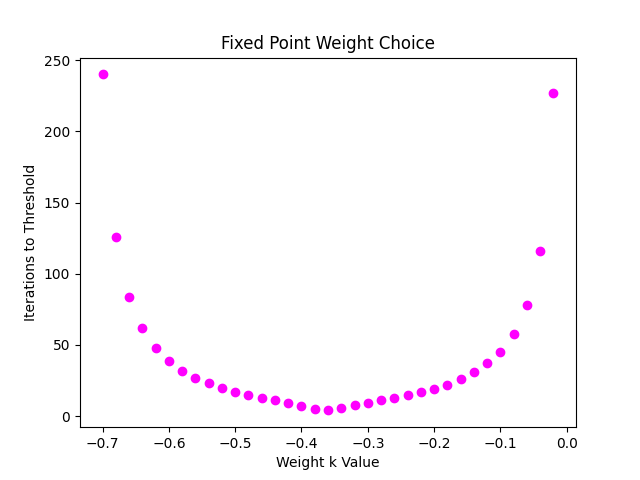
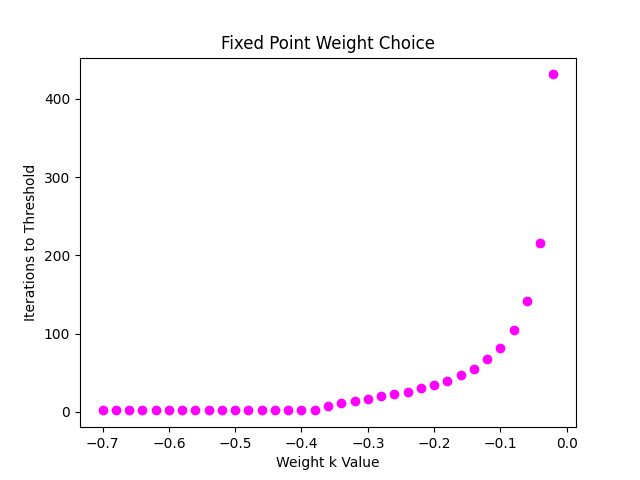
P2 cleaned, part d

diff --git a/HW6/P2.py b/HW6/P2.py
@@ -1,84 +1,188 @@
 import numpy as np
 import matplotlib.pyplot as plt
 
+
+
+
 ########################################## SUBSECTION A ########################################## 
 
-k_opt = -0.404036086 #weight parameter
-k_range = np.arange(-0.7,0,0.02)
-
-#------- Functions -------#
-#Exact function:
+#------- Function -------#
+# Exact function:
 def f1(x):
     return x*np.exp(x) - 1
 
-#Iterative solver:
+
+#------- Fixed-Point Method -------#
 def fixed_point(k):
-    x_0 = 0.5 #initialization
-    max_iter = 10000 #max iterations
+    x_0 = 0.5 # initialization
+    max_iter = 10000 # max iterations
+    num_iter = 0
     x = x_0 #starting value
-
-    for i in range(max_iter):
-        x_new = x + k*f1(x)
-        if np.abs(x_new - x) < 1E-8:
-            break
-        x = x_new
-    
-    return i
-
-
-#--------- Plotting ---------#
-plt.figure()
-plt.title('Fixed Point Weight Choice')
-plt.xlabel('Weight k Value')
-plt.ylabel('Iterations to Threshold')
-iters = []
-for k in k_range:
-    iters.append(fixed_point(k))
-plt.scatter(k_range, iters, color='magenta')
-#plt.show()
-plt.savefig('fixed_pt.png')
-
-print(f'k_opt iterations: {fixed_point(k_opt)}')
-    
+    Delta_x = 1
+    #
+    while Delta_x > 1E-13 and num_iter < max_iter:
+        Delta_x = k*f1(x)
+        x = x + Delta_x
+        num_iter += 1
+    #
+    return num_iter
 
 
+#--------------- Plotting ---------------#
+def a_plotting():
+    k_range = np.arange(-0.7,0,0.02)
+    #
+    plt.figure()
+    plt.title('Fixed Point Weight Choice')
+    plt.xlabel('Weight k Value')
+    plt.ylabel('Iterations to Threshold')
+    iters = []
+    for k in k_range:
+        iters.append(fixed_point(k))
+    plt.scatter(k_range, iters, color='magenta')
+    plt.savefig('fixed_pt.png')
+    plt.show()
+    print(f'k_opt iterations: {fixed_point(-0.404036086)}') #optimal k as analytically found
+    return()
+        
 
 
 
 ########################################## SUBSECTION C ########################################## 
 
-
-
+#----- Function & Derivative -----#
+# Function:
 def f2(x):
     return 1/x + 2*np.log(x) - 2
 
+# Function Derivative:
 def f2_prime(x):
     return -1/x**2 + 2/x 
 
-def newton_method(init_guess):
-    x = init_guess #initial guess
-    num_iter = 10
-    for i in range(num_iter):
-        x_new = x - f2(x)/f2_prime(x)
-        x = x_new
-        print(x_new)
 
-    return x_new
-
-
-x = np.linspace(0.1,3,100)
-
-
-plt.figure()
-plt.title('')
-plt.plot(x, f2(x), label='f(x)')
-plt.scatter([newton_method(0.1), newton_method(2)], [0,0], label='roots')
-plt.grid(True)
-#plt.show()
+#------------ 1D Newton Method ------------#
+def newton1D(init_guess, f, f_prime):
+    x = np.asarray(init_guess, dtype=float)
+    max_iter = 10000
+    x_k = [x.copy()]
+    Delta_x = 1
+    num_iter = 0
+    #
+    while Delta_x > 1E-16 and num_iter < max_iter:
+        Delta_x = - f(x)/f_prime(x)
+        x = x + Delta_x
+        x_k.append(x.copy()) 
+        num_iter += 1
+    # 
+    return x, np.array(x_k)
 
 
+#--------- Plotting ---------#
+def c_plotting():
+    x = np.linspace(0.1,3,100)
+    plt.figure()
+    plt.title('')
+    plt.plot(x, f2(x), label='f(x)')
+    root1 = newton1D(0.1, f2, f2_prime)[0]
+    root2 = newton1D(2, f2, f2_prime)[0]
+    plt.scatter([root1, root2], [0,0], label='roots')
+    plt.grid(True)
+    plt.savefig('1D Newton Method')
+    plt.show()
 
 
 
 
 ########################################## SUBSECTION D ########################################## 
+
+#----- Functions and Jacobian -----#
+# Parabola and ellipse:
+def intersect(coord):
+    x, y = coord
+    F1 = x**2 / 16 + y**2 / 4 - 1
+    F2 = y - (x**2 - 2) 
+    return np.array([F1, F2])
+
+# Jacobian:
+def intersect_jac(coord):
+    x, y = coord
+    J = np.array([
+        [x / 8.0,  y / 2.0],
+        [-2.0 * x, 1.0    ],
+    ])
+    return J
+
+
+#------------------- 2D Newton Method --------------------#
+def newton2D(init_guess, F, J):
+    xy = np.array(init_guess, dtype=float)  # forces a copy
+    xy_k = [xy.copy()]
+    num_iter = 0
+    max_iter = 10000
+    Delta_xy = np.full_like(xy, np.inf)
+    #
+    while np.linalg.norm(Delta_xy,2) > 1E-16 and num_iter < max_iter:
+        F_k = F(xy)
+        J_k = J(xy)
+        Delta_xy = -np.linalg.solve(J_k, F_k)
+        xy += Delta_xy
+        xy_k.append(xy.copy())
+        num_iter += 1
+    #
+    return xy, np.array(xy_k)
+
+
+#----------- Plotting -----------#
+def d_plotting(guess_coords):
+    plt.figure()
+    plt.title('Newton Iterations')
+    x = np.linspace(-3,3,100)
+    y_ellipse = np.sqrt(4 - x**2/4)
+    y_parabola = x**2 - 2
+    #
+    plt.plot(x, y_ellipse, color='black',label='ellipse')
+    plt.plot(x, -y_ellipse, color='black')
+    plt.plot(x, y_parabola, color='grey', label='parabola')
+    #
+    for i, g in enumerate(guess_coords):
+        root, iter_coords = newton2D(g, intersect, intersect_jac)
+        cmap = plt.cm.tab10(i+1)
+        alphas = np.linspace(0.3, 1.0, len(iter_coords))
+        for k in range(len(iter_coords)-4, len(iter_coords)):
+            plt.scatter(iter_coords[k,0], iter_coords[k,1], color=cmap, alpha=alphas[k])
+        print(root)
+    #
+    plt.legend()
+    plt.grid(True)
+    plt.savefig('2D Newton Method')
+    plt.show()
+
+
+#------------------ Error & Convergence -----------------#
+# Prints convergence order for each iteration:
+def convergence_order(guess_coords):
+    for g in guess_coords:
+        xy_iter = newton2D(g, intersect, intersect_jac)[1]
+        xy_star = xy_iter[-1] # iteratively solved solution
+        errors = np.linalg.norm(xy_iter - xy_star, axis=1) #errors at each iteration
+        e = errors[errors > 1e-15] # removing ~ zero errors so no log(0) issue arises
+        #
+        p_vals = []
+        for k in range(1, len(e)-1):
+            p_vals.append(np.log(e[k+1]/e[k]) / np.log(e[k] / e[k-1]))
+        p_vals = np.array(p_vals)
+        #
+        print(f'Convergence order for guess {g}:')
+        for i, p in enumerate(p_vals):
+            print(f'p[{i}] = {p}')
+    #
+    return
+
+
+
+
+########################################## SUBSECTIONS A,C,D FUNCTION CALLS ########################################## 
+a_plotting()
+c_plotting()
+d_plotting(np.array([[0.01, 3],[0.01, -3],[2, -2]]))
+#convergence_order(np.array([[0.01, 3],[0.01, -3],[2, -2]]))

diff --git a/HW6/P3.py b/HW6/P3.py
@@ -56,8 +56,7 @@ def gauss_newton(x_0):
     Delta_x = 1
     for k in range(max_iter):
         Q,R = np.linalg.qr(res_jacobian(x))
-        Delta_x = np.linalg.solve(R,-Q.T@residual(x))
-        x += Delta_x
+        x +=  np.linalg.solve(R,-Q.T@residual(x))
         x_k.append(x.copy())
         if np.linalg.norm(Delta_x) < 1E-16:
             break 
